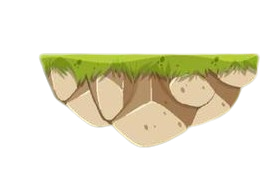
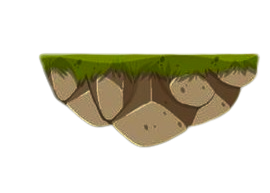
main.css updated
images updated with color

Changed region(s): [[0.1481, 0.2798, 0.9778, 0.7772]]

diff --git a/main/css/main.css b/main/css/main.css
@@ -20,7 +20,7 @@ body {
     display: flex;
     flex-direction: column;
     text-align: center;
-    background: url('../assets/images/Frame33.png') no-repeat center center/cover;
+    background: url('../assets/images/Frame5.png') no-repeat center center/cover;
 }
 
 /*#gameContainer {
